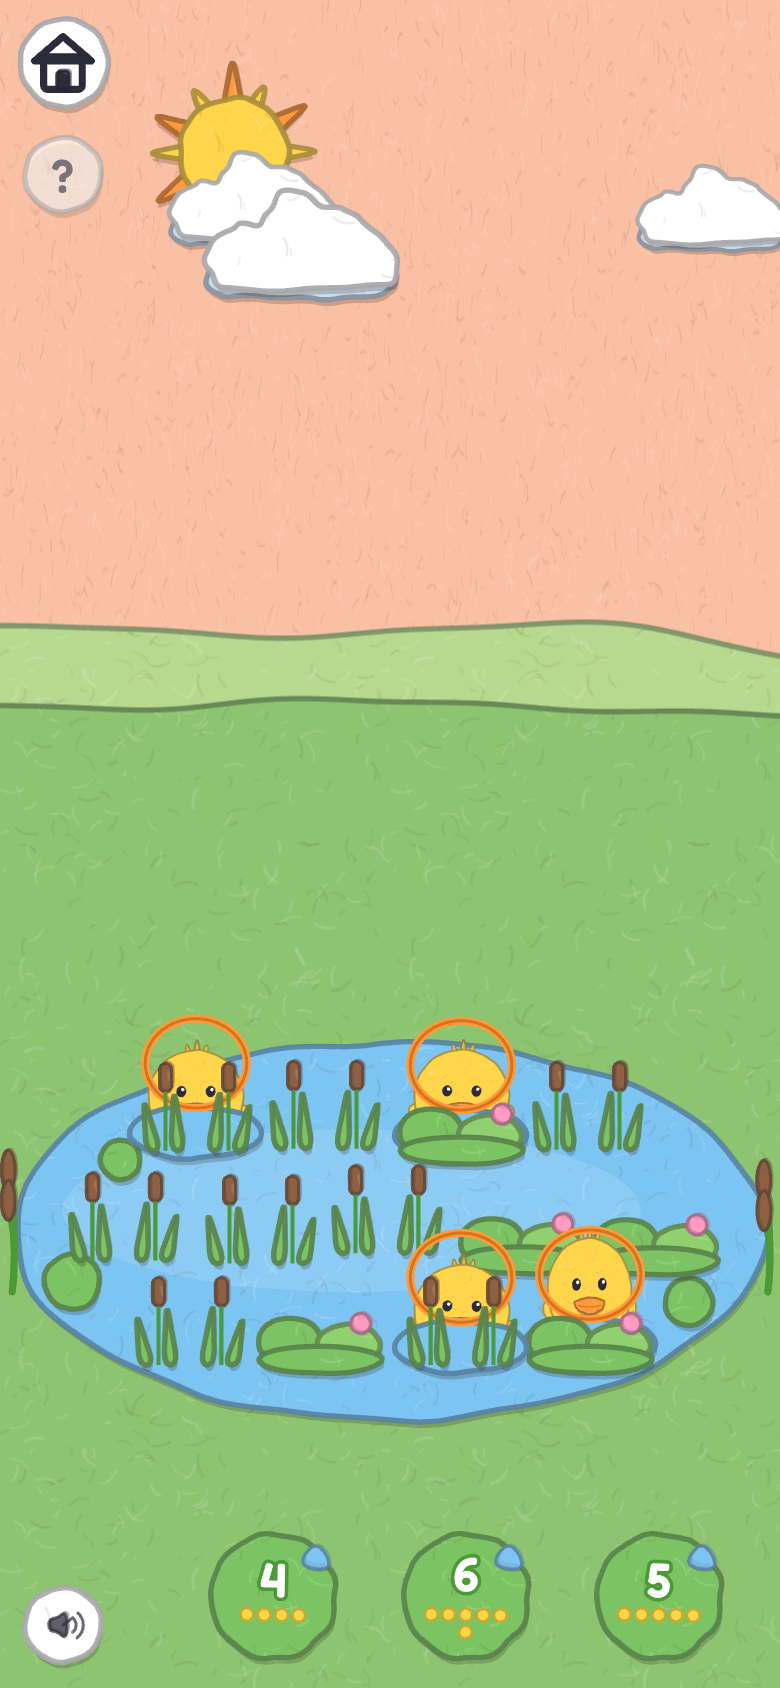
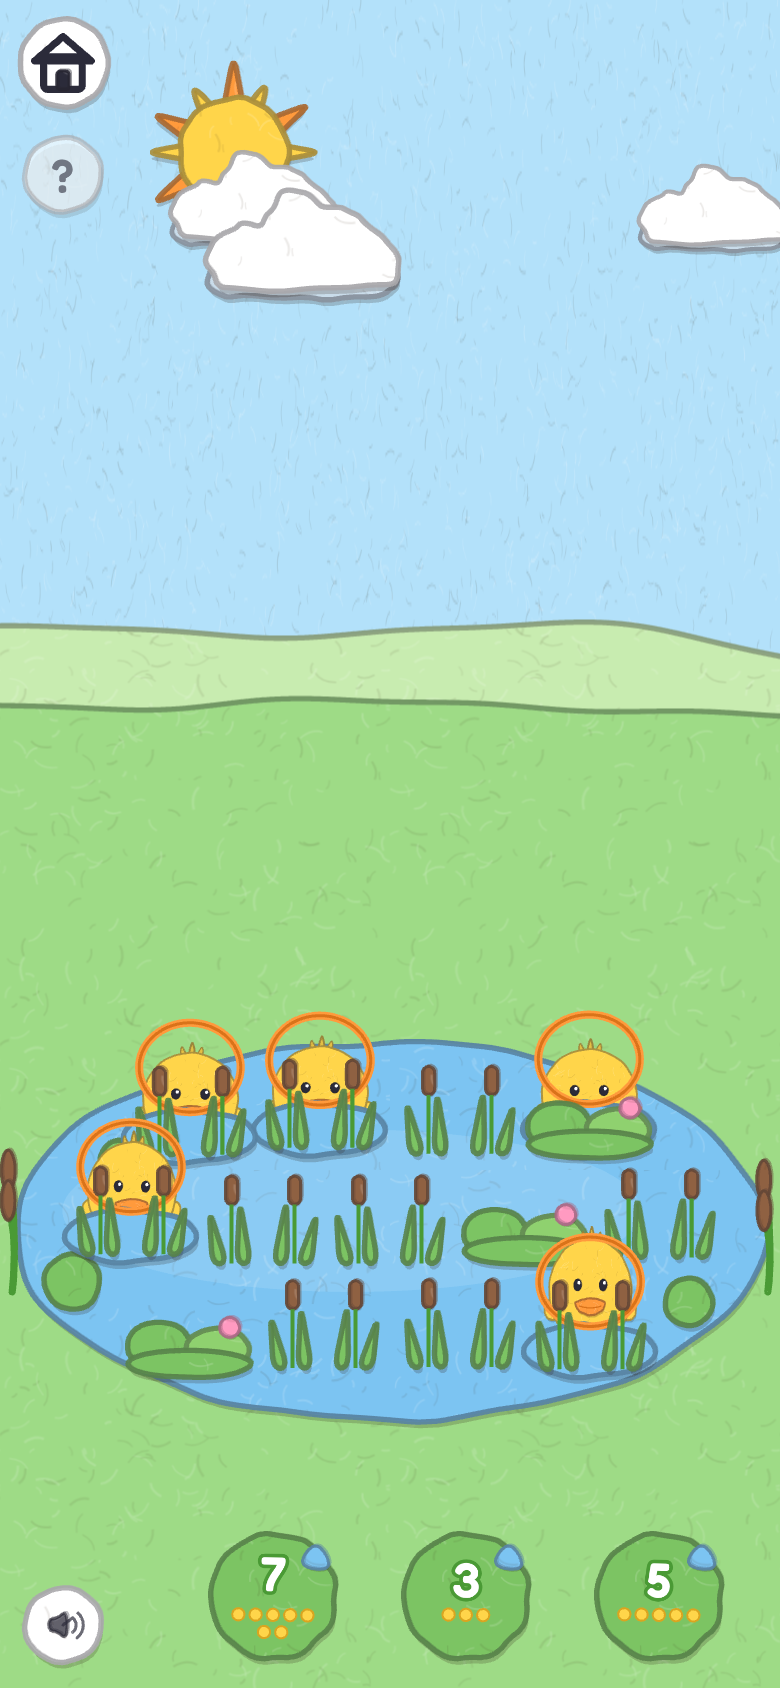
Duck Pond 17: a duck tapped before the guess or during the recount waves without counting; docs closeout
Claude-Session: https://claude.ai/code/session_01TmfKKn9DsEsu6TJzQtd9xg

diff --git a/src/games/duck-pond/index.ts b/src/games/duck-pond/index.ts
@@ -1251,7 +1251,7 @@ class DuckPond implements Game {
         await this.roundWon(0, false);
         return;
       } else if (this.plan.mode === 'peek') {
-        // She counted them herself: every duck waves, and the rings go.
+        // She counted them herself: the rings go and the hiding places fold away (the chorus in `roundWon` has every duck wave).
         for (const d of this.swimmers) d.markCounted(false);
         this.clearPeek();
       } else {
@@ -1459,12 +1459,17 @@ class DuckPond implements Game {
   /** A tap rings a duck and counts it; a ringed duck just quacks, so none is counted twice. Never a miss. */
   private tapPeeker(d: Duck) {
     const peek = this.peek;
-    if (!peek || this.finished || !peek.guessed) return;
+    if (!peek || this.finished) return;
     const i = this.swimmers.indexOf(d);
     if (i < 0) return;
+    d.cheer();
+    // Before the guess, or while the pet is counting the rings aloud, a duck just waves and quacks: it is not counted yet.
+    if (!peek.guessed || this.busy) {
+      sfx.animal('quack');
+      return;
+    }
     const { rung, say } = ringDuck(peek.rung, i);
     peek.rung = rung;
-    d.cheer();
     if (say === null) {
       sfx.animal('quack');
       return;

diff --git a/docs/games/duck-pond.md b/docs/games/duck-pond.md
@@ -38,7 +38,7 @@
 
 **Starts as:** count along as illustrated ducks hop in
 
-**Grows into:** touch anywhere and one big duck quacks and brings a friend swimming in, up to five (lap level 13, first in lap's order); put N in (at levels 4–5 she says when it is enough, with a check and a free undo), how many?, adding and taking away, how many more make ten, then find the ducks hiding under the bridge, then doubles across a footbridge (level 14, school); level 12 (Bye-bye ducks, lap and toddler) is a song: tap a duck to wave it off, the voice counts down, then all five swim back; hidden ducks paddle into view and answered stories show a spoken number sentence
+**Grows into:** touch anywhere and one big duck quacks and brings a friend swimming in, up to five (lap level 13, first in lap's order); put N in (at levels 4–5 she says when it is enough, with a check and a free undo), how many?, adding and taking away, how many more make ten, then find the ducks hiding under the bridge, then doubles across a footbridge (level 14, school); ducks peek out from reeds and leaves and she taps each to ring and count it, then picks the pad (level 17, preschool and pre-K); level 12 (Bye-bye ducks, lap and toddler) is a song: tap a duck to wave it off, the voice counts down, then all five swim back; hidden ducks paddle into view and answered stories show a spoken number sentence
 
 ## Design notes
 
@@ -57,3 +57,5 @@ Level 13, **Friends**, is lap's first level (order `[13, 12, 1, 2]`; `entryLevel
 Level 15, **Ten and some more**, is the school level after Doubles. A full ten pops onto the left ten-frame at once with one splash, then 1 to 9 ducks swim into a second ten-frame on the pond (ducks at 0.68). Rounds alternate: how many in all (pads 11 to 19), then the sign shows the total and she finds how many are on that side (pads 1 to 9); the ones never repeat twice running. A wrong pad counts on from ten ("Start at ten and count on!") or bobs the ten and counts just the ones; the glow comes from the second miss, one hint per question. A right answer writes "10 + 4 = 14" and the pet reads it. The finale narrows the pond back to five full-size ducks.
 
 Level 16, **Every way**, tops the school window (order `[8, 9, 10, 11, 14, 15, 16]`; `rounds` counts totals: 3, 4, 5, 6 ducks, fourteen ways in all). All the ducks start on one side of the footbridge (the left in the first round, either side after). Tapping a duck sends it across to the nearest free seat; tapping it again brings it back; every tap is allowed. The sign reads the live split ("3 and 2"), and the green check keeps the split: a new one slides a card into a row of faint outlines (one fewer than the total, never counted aloud), a repeat pulses its card ("We found that one!"), a swapped one ("2 and 3" after "3 and 2") is a new card and the pet says the same ducks swapped sides, and a pond with a side empty is not a split yet (the check is dim and the pet asks her to send some across, once). The second repeat in a row glows one duck toward the nearest unfound split and counts the round's one hint; there are no misses. The round ends when every outline is filled. The ducks are 0.9 size at six so six fit a side; the card row is as wide as 120 per card allows, narrowing upright. Rules in `logic.ts` (`everyWay`, `keepVerdict`, `nextHintMove`, `everyMove`, `everySeats`), the card row in `every.ts`; the how-to card's demonstration shows the first two totals.
+
+Level 17, **Count the peekers**, sits between levels 6 and 7 (preschool `[3, 4, 5, 6, 17, 7]`, pre-K `[5, 6, 17, 7, 8, 9]`; 17 is in `entryLevels` so a school save of it lands on school's first level). Four rounds of 4 to 10 ducks (the first at most 6) peek from 13 fixed hiding places on a taller pond; each place is reeds or a standing lily leaf, chosen at random and jittered by up to 5. Spots are at least 123 apart so jitter keeps ducks at least 108 apart; a tap area is a circle of radius 54 centred 60 above the duck's feet. Each round first asks "a few, or lots?" with two buttons, never a miss. Each tap on a duck rings and counts it; a ringed duck only quacks and is never counted twice. Pads are dotted, 1 to 10. A wrong pad is a miss: the rings are counted aloud, then the pet says how many are counted and asks who is still peeking (or, with every duck ringed, "{n} rings, so {n} ducks"). The second miss counts one hint and the uncounted ducks glow (the right pad if all are ringed). The right pad clears the rings and says "{n} ducks!". Mode `peek`; rules in `logic.ts`; the `duckpeek.` voice lines are outside the rendered clip list, so they stay on device speech.

diff --git a/docs/deep-dives/duck-pond.md b/docs/deep-dives/duck-pond.md
@@ -168,7 +168,7 @@ Each is sized for one session. Slices that add a level are built in level order 
 7. **Built (2026-11-13, [PR #1638](https://github.com/rjdunlap/neo/pull/1638)): layout and pad cap** (prerequisite for 13, and for widening 12 to 8 + 8). A two-row-of-five layout for ten and twenty seats, pads 0–20 with two-digit numerals, a bridge-split left and right layout. Tier: rule tests (seats distinct, inside the pond, clear of the pad row at four views), one landscape and one portrait screenshot.
 8. **Built (2026-11-14, [PR #1648](https://github.com/rjdunlap/neo/pull/1648)): Level 15, Ten and some more.** New-levels tier: rule tests, a play at 15 (one wrong pad, the hint), `fingerdemo` at 15. Raises the school window to 8–15.
 9. **Built (2026-11-27, [PR #2256](https://github.com/rjdunlap/neo/pull/2256)): Level 16, Every way** (decision 3 settled 2026-10-23: two non-empty sides, ordered; define first). **Defined 2026-11-27** ([definition](../definitions/duck-pond-every-way.md); docs only): ordered splits, a check keeps a split, a card row of N − 1 outlines, totals 3–6; built as mode `every` (cards in `every.ts`, rules in `logic.ts`); the card row narrows upright, six ducks a side draw at 0.9, the how-to demonstration shows the first two totals, and `nextHintMove` returns null when the pond already holds an unfound split (the check is next). Same tier plus a play of tapping a duck back.
-10. **Between and below level 1** (the level-order question is settled by the [2026-10-23 standing rules](../archive/DECISIONS-2026-10-23.md#standing-rules): each entry takes the next free stable ID, placed with `order` and `entryLevels`, no renumbering): *Bye-bye ducks* is built as level 12 ([PR #334](https://github.com/rjdunlap/neo/pull/334), 2026-10-15; lap order 12, 1, 2; toddler 12 to 5), then *Count the peekers* (after slice 4; its layouts are built; building as level 17 on branch `claude/nightly-duck-pond-peekers`), then *Which pond has more?* (after slice 6, which is built).
+10. **Between and below level 1** (the level-order question is settled by the [2026-10-23 standing rules](../archive/DECISIONS-2026-10-23.md#standing-rules): each entry takes the next free stable ID, placed with `order` and `entryLevels`, no renumbering): *Bye-bye ducks* is built as level 12 ([PR #334](https://github.com/rjdunlap/neo/pull/334), 2026-10-15; lap order 12, 1, 2; toddler 12 to 5), then *Count the peekers* is built as level 17 ([PR #2324](https://github.com/rjdunlap/neo/pull/2324), 2026-11-28; mode `peek`; preschool order `[3, 4, 5, 6, 17, 7]`, pre-K `[5, 6, 17, 7, 8, 9]`), then *Which pond has more?* (after slice 6, which is built).
 11. **Night pond, pairs, who was here first, fill to any number** (sketches; pairs: decision 4 settled 2026-10-23, Duck Pond owns evens and odds).
 12. **Level 13, One big duck, first at lap** (built; [PR #1596](https://github.com/rjdunlap/neo/pull/1596)). A lap level from [the toy test](../definitions/toy-test-lap-openings.md#counting-cove) appended to the ladder and first in lap's order (`[13, 12, 1, 2]`; `entryLevels` `[12, 13]`). It takes ids 12 and 13, so the planned school levels above (Doubles, Ten and some more, Every way) take the next free ids when built: 14, 15 and 16 (ids are appended, never inserted). Tier: new level: typecheck, rule tests, one browser play of level 13, `fingerdemo` at 13.
 

diff --git a/docs/verification/2026-11-28-duck-pond-level-17-count-the-peekers.md b/docs/verification/2026-11-28-duck-pond-level-17-count-the-peekers.md
@@ -1,0 +1,5 @@
+# 2026-11-28 — Duck Pond level 17, Count the peekers (PR #2324)
+
+**Changed:** Duck Pond level 17 (mode `peek`): 4 to 10 ducks peek from 13 fixed hiding places (reeds or standing lily leaves) on a taller pond, a "few or lots?" guess first (never a miss), a tap rings and counts a duck once, then a dotted pad; a wrong pad counts the rings aloud and asks who is still peeking, and the second miss counts one hint and glows the uncounted ducks. Preschool order is now `[3, 4, 5, 6, 17, 7]`, pre-K `[5, 6, 17, 7, 8, 9]`, and 17 is in `entryLevels`. Eight `duckpeek.` voice lines stay on device speech (no clips rendered).
+**Ran:** `npm run typecheck`; the full `npm test` (557 files, 20,617 passed; 2 timing tests failed under load, number-nook hint timing and secret-code level 11 generation speed, and both passed run alone: 110 passed); the new peek rule and upright tests in `logic.test.ts` and `upright.test.ts` (five upright views); a scripted Playwright play of level 17 at 390×844 (preschool): all four rounds, guesses both ways, a repeat tap on a ringed duck not counted, two wrong pads = 2 misses and 1 hint with the uncounted ducks glowing, then the rest ringed and the right pad, sticker awarded, no page errors. Screenshots: `docs/verification/images/duck-pond-17-phone-guess.png` and `duck-pond-17-phone-counted.png`.
+**Not run:** the `fingerdemo` suite, `npm run build` (no shared files or assets changed), any real phone.
